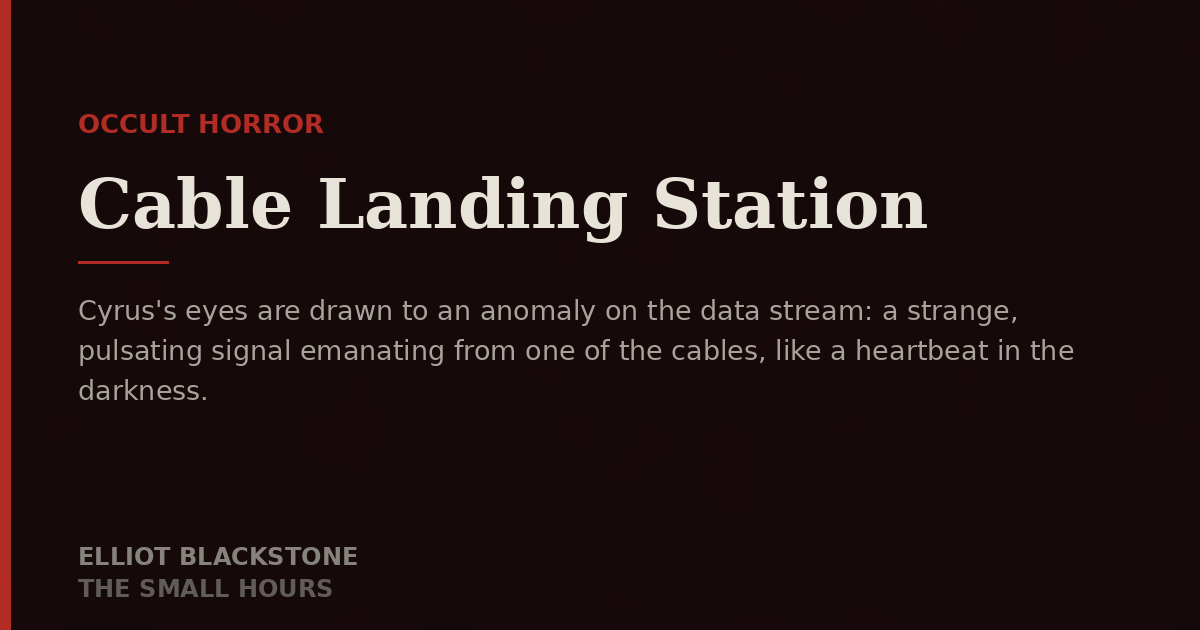
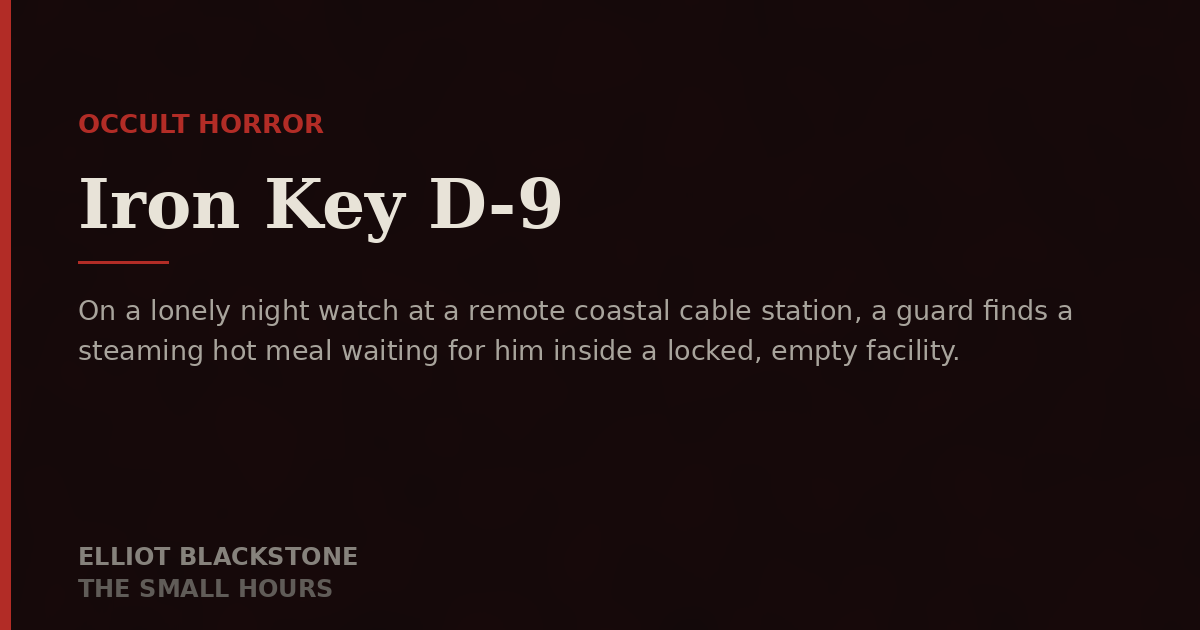
Add a cloud line-edit pass, and apply it to the first story
The local model gets structure right but writes plainly, which is a
hardware ceiling rather than a prompting problem. It now drafts, and
Gemini rewrites at sentence level against the same style guide with the
plot, scene order, names, twist and coda all held fixed. Titles and hooks
come from the same pass, which is markedly better at both.

Entirely optional and strictly additive: with no API key, an API error, a
refusal, a result that is too short or too long, or anything carrying
Grey Anthology lore, the local draft publishes unchanged.

diff --git a/daily/cable-landing-station.html b/daily/cable-landing-station.html
@@ -3,28 +3,28 @@
 <head>
     <meta charset="UTF-8">
     <meta name="viewport" content="width=device-width, initial-scale=1.0">
-    <title>Cable Landing Station - Elliot Blackstone</title>
+    <title>Iron Key D-9 - Elliot Blackstone</title>
     <!-- SEO & social meta (generated) -->
-    <meta name="description" content="Cyrus&#x27;s eyes are drawn to an anomaly on the data stream: a strange, pulsating signal emanating from one of the cables, like a heartbeat in the darkness.">
+    <meta name="description" content="On a lonely night watch at a remote coastal cable station, a guard finds a steaming hot meal waiting for him inside a locked, empty facility.">
     <meta name="author" content="Patrick Galyen">
     <meta name="robots" content="index, follow">
     <link rel="canonical" href="https://elliotblackstone.com/daily/cable-landing-station.html">
     <meta property="og:type" content="article">
     <meta property="og:site_name" content="Elliot Blackstone">
-    <meta property="og:title" content="Cable Landing Station">
-    <meta property="og:description" content="Cyrus&#x27;s eyes are drawn to an anomaly on the data stream: a strange, pulsating signal emanating from one of the cables, like a heartbeat in the darkness.">
+    <meta property="og:title" content="Iron Key D-9">
+    <meta property="og:description" content="On a lonely night watch at a remote coastal cable station, a guard finds a steaming hot meal waiting for him inside a locked, empty facility.">
     <meta property="og:url" content="https://elliotblackstone.com/daily/cable-landing-station.html">
     <meta property="og:image" content="https://elliotblackstone.com/images/og/daily-cable-landing-station.png">
     <meta property="og:image:width" content="1200">
     <meta property="og:image:height" content="630">
-    <meta property="og:image:alt" content="Cable Landing Station — Elliot Blackstone">
+    <meta property="og:image:alt" content="Iron Key D-9 — Elliot Blackstone">
     <meta property="article:author" content="Patrick Galyen">
     <meta property="article:published_time" content="2026-09-13">
     <meta name="twitter:card" content="summary_large_image">
-    <meta name="twitter:title" content="Cable Landing Station">
-    <meta name="twitter:description" content="Cyrus&#x27;s eyes are drawn to an anomaly on the data stream: a strange, pulsating signal emanating from one of the cables, like a heartbeat in the darkness.">
+    <meta name="twitter:title" content="Iron Key D-9">
+    <meta name="twitter:description" content="On a lonely night watch at a remote coastal cable station, a guard finds a steaming hot meal waiting for him inside a locked, empty facility.">
     <meta name="twitter:image" content="https://elliotblackstone.com/images/og/daily-cable-landing-station.png">
-    <meta name="twitter:image:alt" content="Cable Landing Station — Elliot Blackstone">
+    <meta name="twitter:image:alt" content="Iron Key D-9 — Elliot Blackstone">
     <!-- /SEO & social meta -->
     <link rel="stylesheet" href="../css/style.css">
     <!-- JSON-LD structured data (generated) -->
@@ -32,9 +32,9 @@
     {
       "@context": "https://schema.org",
       "@type": "ShortStory",
-      "headline": "Cable Landing Station",
-      "name": "Cable Landing Station",
-      "description": "Cyrus's eyes are drawn to an anomaly on the data stream: a strange, pulsating signal emanating from one of the cables, like a heartbeat in the darkness.",
+      "headline": "Iron Key D-9",
+      "name": "Iron Key D-9",
+      "description": "On a lonely night watch at a remote coastal cable station, a guard finds a steaming hot meal waiting for him inside a locked, empty facility.",
       "genre": "Occult Horror",
       "image": "https://elliotblackstone.com/images/og/daily-cable-landing-station.png",
       "url": "https://elliotblackstone.com/daily/cable-landing-station.html",
@@ -44,7 +44,7 @@
       },
       "inLanguage": "en",
       "datePublished": "2026-09-13",
-      "wordCount": 1979,
+      "wordCount": 1983,
       "author": {
         "@type": "Person",
         "name": "Patrick Galyen",
@@ -87,7 +87,7 @@
             <span class="breadcrumb__sep" aria-hidden="true">›</span>
             <a href="../daily.html">The Small Hours</a>
             <span class="breadcrumb__sep" aria-hidden="true">›</span>
-            <span aria-current="page">Cable Landing Station</span>
+            <span aria-current="page">Iron Key D-9</span>
         </div>
     </nav>
 
@@ -95,8 +95,8 @@
         <section class="page-header">
             <div class="container">
                 <span class="story-category">Occult Horror</span>
-                <h1>Cable Landing Station</h1>
-                <p class="page-subtitle">September 13, 2026 · 1979 words</p>
+                <h1>Iron Key D-9</h1>
+                <p class="page-subtitle">September 13, 2026 · 1983 words</p>
             </div>
         </section>
 
@@ -104,109 +104,259 @@
             <div class="container">
                 <div class="story-body">
                     <p>
-                        Cyrus Sandoval poured himself a lukewarm cup of coffee from the thermos on his truck's passenger seat, its surface etched with faint oil stains from countless sea salt deposits. He'd taken this night watchman job at the submarine cable landing station for the peace and quiet – a break from the constant din of city life after his wife left him. Now, in the stillness of 3:17 a.m., the Pacific's vast darkness pressed against the reinforced steel and concrete enclosures housing the cables that linked the continent to the rest of the world. A few scattered stars pricked the sky above.
+                        Cyrus Sandoval poured himself a lukewarm cup of coffee from the steel thermos on his truck’s passenger seat. The metal casing was caked in dried sea salt and faint grease rings from sixty nights on the headland. He had taken this watchman job at the submarine cable landing station for the quiet—a clean break from Sacramento after Sarah packed her bags and left him with half a house.
                     </p>
                     <p>
-                        He locked his truck, its wheels squeaking on the weathered asphalt, and made his way towards the main control building, a hulking structure of rust-resistant aluminum and corrugated steel. The exterior lights cast long shadows across the concrete, but Cyrus knew every inch of this station by heart – he'd been working here for six months now.
+                        It was 3:17 a.m. The Pacific Ocean lay invisible beyond the security fence, three thousand miles of cold black water pressing against three feet of poured concrete and reinforced steel. A dozen thin stars pricked the marine fog above the bluffs.
                     </p>
                     <p>
-                        As he stepped into the airlock, the hiss of pressure equalization filled his ears. He passed through into the dimly lit control room, where banks of humming servers and LED displays glowed with a soft blue light. His eyes fell on the usual rows of screens: status indicators for the cables, ocean depth sensors, and an emergency generator's fuel level gauge. A key, labeled "D-9", hung from his ring alongside the others – keys for the generator room, the cable repair shack, and the airlock – but Cyrus had no idea what D-9 unlocked. He hadn't seen the corresponding lock on any of the station's doors or equipment cabinets during his six months here.
+                        He locked his truck. The driver’s side hinge squeaked twice against the salt air.
                     </p>
                     <p>
-                        His gaze swept over the screens as he went about his routine check: verifying that all systems were online, monitoring the cable's signal strength, and checking for any unusual changes in ocean currents or sea temperature. The data flowed onto his tablet like a steady stream of water – numbers and graphs that made no sense to him, but which told him everything was normal, just as it should be.
+                        The main control building was a low box of ribbed aluminum and corrugated steel. Sodium lights overhead cast yellow circles across the pitted asphalt. Cyrus knew the ground by foot-feel: two hundred paces from the gate to the outer hatch, three steps over the raised threshold, four paces to the keycard reader. He had walked it every night for six months.
                     </p>
                     <p>
-                        Cyrus's gaze drifted from the screens to the small galley, where a steaming plate of eggs and bacon sat on the counter. His stomach growled at the sight, but he shook his head. He'd eaten an hour ago. Still, someone must have decided to leave him a snack, thinking he might get peckish later.
+                        He stepped into the airlock. The pneumatic seal hissed, equalizing pressure with a heavy thump that vibrated through the heels of his boots.
                     </p>
                     <p>
-                        He shrugged and picked up the plate, examining it for any signs of tampering or recent preparation. The eggs looked freshly cracked, the bacon crisped just right. Whoever made this meal had done a decent job – almost as if they'd been trained in a kitchen. Cyrus set the plate back down on the counter, deciding to leave it there.
+                        Inside, the control room smelled of ozone, wet concrete, and scorched dust. Rack after rack of servers hummed in the dark, their blue LED status displays glowing softly against the linoleum floor.
                     </p>
                     <p>
-                        He checked the comms console for any messages from the owner's office or maintenance teams, but there was nothing new since his last check. The station's routines were well-established; everyone knew what needed doing and when. Cyrus's thoughts began to wander as he went through the motions of his rounds: would he have time to read that book he'd brought with him before his shift ended? Maybe grab a shower if he had an hour free?
+                        Cyrus unclipped his key ring from his belt loop. There was the brass key for the diesel generator room, the square-head key for the cable repair shack, and the master key for the airlock bypass. Between them hung a heavy iron key stamped <em>D-9</em>. In six months of six-day shifts, he had never found a lock that fit it. Not on the breaker boxes, not on the server cages, not on the rusted access hatches along the seawall.
                     </p>
                     <p>
-                        The intercom crackled to life, and Cyrus's eyes snapped back to it. He frowned, expecting a message or perhaps some kind of announcement, but instead of a voice, the sound just kept going – static, like someone was holding the mic open, ready for him to respond.
+                        He tapped his tablet screen to run the hourly routine check. Signal strength on the subsea fiber bundles read steady at one hundred gigabits per second. Ocean depth sensors logged a seabed temperature of 3.8 degrees Celsius. The metrics scrolled past in clean vertical columns—numbers and graphs that meant nothing to him, but proved the continent was still talking to the rest of the world.
                     </p>
                     <p>
-                        Cyrus's eyes narrowed as he listened to the static-filled intercom, wondering if someone had left it open by mistake or if there was a problem with the comms system. He glanced around the dimly lit station, but everything seemed normal. The console in front of him flickered softly, casting an faint glow on the floor. He let out a low sigh and rubbed his eyes, feeling a creeping sense of fatigue.
+                        Cyrus walked over to the galley cutout to fill his water mug. On the stainless steel counter sat a white porcelain plate holding two sunny-side-up eggs and three strips of bacon. Steam rose from the yellow yolks into the cool air.
                     </p>
                     <p>
-                        Shrugging it off, he moved on to the next task: checking the landing gear's condition. As he walked towards the storage room, his foot landed on something familiar – the worn soles of his spare boots, already broken in from months of wear. He'd left them here after his last visit. Cyrus felt a flicker of relief; at least someone had been using the station recently.
+                        Cyrus stopped.
                     </p>
                     <p>
-                        He slipped off his own scuffed boots and put on the spares, feeling a strange sense of comfort in the familiar weight and fit. But as he stood up, a sudden jolt ran through his legs – not quite pain, but... <em>This is just tiredness.</em> He shook it off, chalking it up to a long day and a poor night's sleep. The landing gear was fine; no issues there. Cyrus made a mental note to replace the spare batteries in his radio, though, as he hadn't checked them yet. Maybe that was what was giving him these... odd tingles.
+                        His stomach pinched with hunger, but he frowned down at his wrist. It was 3:22 a.m. He had eaten a cold turkey sandwich at his kitchen table in town at 1:00 a.m. before driving out to the coast.
                     </p>
                     <p>
-                        Cyrus stepped out of the maintenance room and into the main control area, his eyes adjusting to the dim light. He walked over to the radio console, where a small LCD screen glowed softly. He keyed the microphone and began to speak into it, trying to sound more professional than he felt.
+                        <em>Someone left a midnight snack.</em>
+                    </p>
+                    <p>
+                        He leaned down to look closer. The eggs were freshly cracked, the translucent edges uncured by heat lamps. The bacon curled crisp at the ends, smelling of smoked hickory and hot grease. Nobody else was scheduled on the night shift. The day manager, Miller, had logged out at 1800 hours and driven his sedan back to the highway.
+                    </p>
+                    <p>
+                        Cyrus set the plate back on the edge of the counter. He left it there, untouched.
+                    </p>
+                    <p>
+                        He checked the comms console for any incoming transmissions from the regional office in Portland or the field maintenance teams, but the queue was empty. The station ran on fixed schedules. Everyone knew what needed doing, and when. Cyrus went through the motions of his rounds, his mind drifting ahead to the end of his shift: twenty minutes to finish the paperback western in his glovebox, maybe a hot shower in the crew quarters behind the server racks if the water pressure held out.
+                    </p>
+                    <p>
+                        The wall-mounted intercom crackled.
+                    </p>
+                    <p>
+                        A sharp burst of white noise filled the room, like dry sand poured over concrete. Cyrus turned. The red transmit light on the wall unit remained dark, but the speaker cone hummed with open static, as if someone were holding a microphone key open on the other end of the wire.
+                    </p>
+                    <p>
+                        He waited five seconds. Ten.
+                    </p>
+                    <p>
+                        Nothing followed. Just the dry rasp of an open line.
+                    </p>
+                    <p>
+                        Cyrus rubbed his thumb over the bridge of his nose.
+                    </p>
+                    <p>
+                        <em>Faulty ground wire in the amplifier.</em>
+                    </p>
+                    <p>
+                        He picked up his heavy flashlight and walked down the central corridor toward the storage room to complete the 0400 gear check. The air grew colder near the foundation footings, smelling of damp lime and stagnant water.
+                    </p>
+                    <p>
+                        On the concrete floor beside the rubberized landing gear housings sat his spare work boots. They were old Red Wings, the leather scuffed white at the steel toes, the rubber soles worn down at the outer heel. He had brought them from his garage three weeks ago and left them against the wall.
+                    </p>
+                    <p>
+                        He unlaced his current boots, kicked them off, and slid his feet into the spares. The leather was supple, already molded to the arches of his feet.
+                    </p>
+                    <p>
+                        He stood up and pulled the laces tight.
+                    </p>
+                    <p>
+                        A sudden spike of cold electricity shot through his calves—a sharp, prickling numbness that climbed from his ankles to his knees like needles pushed into muscle.
+                    </p>
+                    <p>
+                        Cyrus grabbed the edge of a steel shelving unit.
+                    </p>
+                    <p>
+                        <em>You slept four hours in three days. It is muscle fatigue.</em>
+                    </p>
+                    <p>
+                        He bent his knees twice until the thrumming settled into a dull, vibrating ache. The landing gear housings were dry and bolted down tight. He made a note on his clipboard that the backup lithium batteries in the emergency radio were due for testing. Maybe that was what was feeding feedback into the electrical lines.
+                    </p>
+                    <p>
+                        He stepped out of the maintenance bay and returned to the main control area. The light felt dimmer now, the blue LEDs casting longer shadows between the server racks.
+                    </p>
+                    <p>
+                        He picked up the heavy plastic microphone of the marine-band radio console. He clicked the dial to channel 16, pressed the push-to-talk button, and cleared his throat.
                     </p>
                     <p>
                         "Hello, this is the cable landing station. Can anyone hear me?"
                     </p>
                     <p>
-                        The static that responded was just as he had expected – nothing. He tried again, this time switching to a different frequency, but the result was the same: silence.
+                        The speaker hissed back at him. Nothing.
                     </p>
                     <p>
-                        Cyrus let out a slow breath and stood up straight, raking his hand through his hair. <em>Okay, so the batteries in the radio must be dead after all.</em> He made a mental note to check them as soon as he could, and then tried calling again, this time using his phone.
+                        He switched the selector dial three notches to the right, onto the commercial frequency.
                     </p>
                     <p>
-                        The screen flickered to life as the phone connected to the satellite link, but when Cyrus tried to dial out, the numbers refused to register. The display froze on the keypad layout, as if waiting for him to enter a code.
+                        "Hello, this is the cable landing station. Can anyone hear me?"
                     </p>
                     <p>
-                        He stepped back from the console, feeling a shiver run down his spine despite the warm summer evening air. <em>That's strange</em>. But he knew what was likely going on – it was just another minor issue with the satellite link, one that would be easy enough to resolve once he got the right people involved.
+                        Static.
                     </p>
                     <p>
-                        Cyrus took a deep breath and tried to shake off the feeling of unease settling in his chest. He walked over to the small café area near the control room, where a vending machine hummed quietly in the corner. Maybe a snack would help him clear his head...
+                        He hung the microphone on its brass hook. He pulled his cell phone from his belt holster. The screen lit up with full signal bars for the satellite link, but when he tapped the keypad to dial out, the screen froze. The display locked on the numeric layout, an empty text field appearing at the top, waiting for a nine-digit security code he had never seen before.
                     </p>
                     <p>
-                        Cyrus stood at the counter of the café, staring blankly at the vending machine as it dispensed a bag of stale chips into the tray. He opened the pack and sniffed the contents, his stomach growling at the scent. The crunch of the chips as he popped one into his mouth was a familiar sound, but it did nothing to distract him from the nagging sense that something was wrong.
+                        Cyrus backed away from the desk.
                     </p>
                     <p>
-                        He tried to focus on the task at hand – getting the satellite link up and running again – but his mind kept drifting back to the strange feeling of being watched. It started when he first arrived, but he'd pushed it aside as mere paranoia. Now, however, it had morphed into a creeping sense of disorientation.
+                        The temperature in the room had dropped four degrees. He could see his breath forming faint, translucent clouds over the glowing indicator screens.
                     </p>
                     <p>
-                        As he munched on the chips, Cyrus noticed that the intercom in the corner of the control room – which had been stuck on a loop with the same message for what felt like hours – suddenly flickered back to life. "Welcome to the OceanView Submarine Cable Landing Station... Welcome to the OceanView Submarine Cable..." The words hung in the air, identical to before, but something about it now sent a shiver down his spine.
+                        <em>It is a signal drop. The satellite relay is recalibrating.</em>
                     </p>
                     <p>
-                        He glanced down at his wristwatch, which had been running fast for weeks – four minutes ahead of actual time. Now, as he checked it for what felt like the hundredth time that night, the discrepancy seemed to be growing.
+                        He walked into the small break area adjacent to the control room. A vending machine hummed quietly in the corner against the painted cinderblock wall.
                     </p>
                     <p>
-                        Cyrus's eyes locked onto his watch as the discrepancy between its time and his surroundings grew. The words from the intercom still hung in the air, but he'd tuned them out. He couldn't shake the feeling that the clock was broken, that the very fabric of time had come loose.
+                        Cyrus reached into his pocket, pulled out three quarters, and pushed them into the coin slot. He pressed B-4.
                     </p>
                     <p>
-                        He pushed back from the console and stood up, his joints creaking softly as he stretched. The control room was a tomb, the only sound the hum of the equipment and the gentle hiss of the ventilation system. The air felt stale, heavy with the scent of ozone and burned plastic.
+                        The internal coil turned with a heavy metallic click. A blue foil bag of potato chips dropped into the tray below.
                     </p>
                     <p>
-                        As he moved closer to the intercom, the words seemed to grow louder, more urgent. "Welcome to... Welcome to..." He raised his hand to touch the device, and just as his fingers made contact, the lights in the room began to strobe wildly.
+                        He tore the corner of the bag with his teeth. The smell of rancid canola oil filled his nostrils. He chewed one chip. It tasted flat, like cardboard dipped in salt, but his stomach churned around it anyway.
                     </p>
                     <p>
-                        The sudden change made Cyrus's heart jump into his throat. He stumbled backward, tripping over the edge of the console chair. His palms hit the cold floor hard, and he scrambled to get up, his breathing growing ragged. The lights died, plunging the room into darkness.
+                        Behind him, the intercom speaker on the break room wall clicked twice.
                     </p>
                     <p>
-                        Cyrus froze, waiting for his eyes to adjust. But instead of a gradual dimming, there was an absolute absence of light. He strained to see, but it was like being underwater. The air felt thick and heavy, pressing down on him. And then, with no warning, the temperature plummeted, making the hairs on the back of his neck stand on end.
+                        A mechanical female voice spoke through the static:
                     </p>
                     <p>
-                        He was alone in the darkness, surrounded by silence.
+                        "Welcome to the OceanView Submarine Cable Landing Station... Welcome to the OceanView Submarine Cable..."
                     </p>
                     <p>
-                        Cyrus's eyes strained to see through the darkness, but it was like trying to breathe through a clogged pipe. He could feel the air thickening around him, making his skin prickle with sweat. The cold seeped in, crawling up his legs like a living thing.
+                        The voice paused, clicked, and repeated the phrase with exact, flat cadences.
                     </p>
                     <p>
-                        He tried to stand, but his feet felt rooted to the spot. A faint hum vibrated through the soles of his shoes, making them thrum like a bass note. Cyrus's mind reeled, trying to piece together what was happening. He thought back to the days since he'd arrived at the station. The strange symbols on the console. The discrepancy in the weather records.
+                        Cyrus looked down at his wrist. His stainless steel watch had been running four minutes fast for weeks. Now, as he watched the sweep second hand, it was jumping two seconds with every tick, spinning forward into time that had not arrived yet.
                     </p>
                     <p>
-                        A memory clicked into place: the lawyer's words, months ago. "I want my affairs settled, Mr. Sandoval. You're a man of routine, I'm told." Routine. Cyrus remembered the will, the way the lawyer's eyes had flickered over the words before he'd signed off. Routine.
+                        The discrepancy was growing.
                     </p>
                     <p>
-                        The hum grew louder, and Cyrus felt his body begin to shudder. He was on his feet now, stumbling towards the door. But as he reached for the handle, his hand closed around something smooth and metallic. A small key fob. The one he'd found on the floor weeks ago. The one with a number etched into it: 27.
+                        "Welcome to the OceanView Submarine Cable..."
                     </p>
                     <p>
-                        Cyrus Sandoval's records were filed away with the others, stamped INACTIVE on the top sheet. The submarine cable landing station was still operational, its humming machinery a steady beat in the darkness. The weather records for that day were missing, but the discrepancy had been noted and would be looked into. Routine procedure.
+                        The voice echoed from the hallway speaker, the galley speaker, and the main control console simultaneously.
                     </p>
                     <p>
-                        The new watchman, Jenkins, clocked in at 0600 hours, exchanging pleasantries with the security guard as he took over the rounds. Cyrus Sandoval's name was scratched off the roster, his badge returned to storage. The station's schedule was unchanged: maintenance checks tomorrow at 0800, replacement parts ordered from the mainland. Jenkins made a mental note to review the cable's repair history.
+                        Cyrus dropped the bag of chips.
                     </p>
                     <p>
-                        As he walked the catwalks, Jenkins noticed the console was still open on Cyrus Sandoval's workstation, keys pressed in place, the intercom crackling with static. He cleared his throat and spoke into the mic, the words echoing back at him: "Station Alpha, this is Security. Station Alpha, this is Security."
+                        The floor beneath his boots was no longer still. A low-frequency hum—sixty hertz, vibrating through the concrete slab—shook the water in his mug and thrummed up through his leg bones into his pelvis.
+                    </p>
+                    <p>
+                        The smell of burned plastic and ozone hit his throat, thick as wet wool.
+                    </p>
+                    <p>
+                        He stepped back into the main room. The intercom speaker rattled inside its metal housing on the wall.
+                    </p>
+                    <p>
+                        "Welcome to..."
+                    </p>
+                    <p>
+                        He reached his right hand out to hit the master breaker switch on the zinc wall box.
+                    </p>
+                    <p>
+                        The moment his fingers touched the metal cover, the overhead lights strobed violently three times. Blue sparks rained down from the overhead cable trays.
+                    </p>
+                    <p>
+                        Cyrus stumbled backward. His heel caught the caster wheel of his office chair.
+                    </p>
+                    <p>
+                        He hit the floor hard. The linoleum burned his palms.
+                    </p>
+                    <p>
+                        The lights died.
+                    </p>
+                    <p>
+                        Absolute darkness filled the room. Not the soft dark of an unlit office, but a heavy, physical blackness that pressed against his open eyes like wet clay.
+                    </p>
+                    <p>
+                        The temperature plummeted. Frost bloomed across the concrete floor, sticking to the skin of his hands.
+                    </p>
+                    <p>
+                        He tried to push himself up, but his feet felt rooted to the spot. The hum vibrating through the soles of his shoes had turned into a physical weight, holding his legs down, locking his knees in place.
+                    </p>
+                    <p>
+                        <em>Think.</em>
+                    </p>
+                    <p>
+                        Six months of routine. The weather logs that had no entries for rain. The console display symbols that matched no known binary code. The eggs on the counter, cooked for a man who had already eaten.
+                    </p>
+                    <p>
+                        A memory surfaced through the noise in his head: the lawyer’s office in Sacramento three weeks after Sarah left. The heavy mahogany desk. The smell of old paper and peppermint. The man in the grey suit sliding a thick blue folder across the wood.
+                    </p>
+                    <p>
+                        "I want my affairs settled, Mr. Sandoval. You're a man of routine, I'm told."
+                    </p>
+                    <p>
+                        <em>The will.</em>
+                    </p>
+                    <p>
+                        He had not taken this job. He had been assigned to it. The contract was not an employment agreement; it was a disposition of assets.
+                    </p>
+                    <p>
+                        Cyrus dragged his right hand across the frost-slicked floor until his fingers struck a small metal object beneath the lip of the main console baseboard.
+                    </p>
+                    <p>
+                        He gripped it.
+                    </p>
+                    <p>
+                        It was an oval key fob on a broken steel chain. He ran his thumb over the stamped face, feeling the frozen metal bite into his skin.
+                    </p>
+                    <p>
+                        The number <em>27</em> was cut deep into the iron.
+                    </p>
+                    <p>
+                        ***
+                    </p>
+                    <p>
+                        Cyrus Sandoval’s records were filed in the regional administrative office in Salem, stamped INACTIVE on the top sheet of the manila folder.
+                    </p>
+                    <p>
+                        The submarine cable landing station at OceanView continued to process 120 terabytes of encrypted data per minute. The weather metrics for October 14 showed a four-hour gap in barometric logs, noted in red ink on the weekly audit sheet.
+                    </p>
+                    <p>
+                        The replacement watchman, Jenkins, tapped his ID card against the outer security scanner at 0600 hours.
+                    </p>
+                    <p>
+                        "Mornin'," Jenkins said to the guard at the gate.
+                    </p>
+                    <p>
+                        Cyrus Sandoval’s name had been drawn through with a black felt marker on the clipboard duty sheet. His metal locker had been cleared, his magnetic access badge returned to the safe. The station schedule was unchanged: generator maintenance at 0800, replacement parts ordered from the mainland.
+                    </p>
+                    <p>
+                        Jenkins walked the steel catwalk above the server banks. On the main workstation, the terminal screen remained active, the cursor blinking over a blank prompt line. A heavy ring of keys lay beside the keyboard, the brass key stamped <em>D-9</em> glinting under the fluorescent tubes.
+                    </p>
+                    <p>
+                        The wall intercom clicked once. Static hissed from the speaker cone.
+                    </p>
+                    <p>
+                        Jenkins lifted the black plastic microphone, pressed the switch, and spoke into the cold room.
+                    </p>
+                    <p>
+                        "Station Alpha, this is Security. Station Alpha, this is Security."
                     </p>
                 </div>
 

diff --git a/daily.html b/daily.html
@@ -83,16 +83,16 @@
                 <div class="stories-grid-full">
                     <article class="story-card-large">
                         <div class="story-image">
-                            <img src="images/og/daily-cable-landing-station.png" alt="Cable Landing Station preview artwork" width="1200" height="630" decoding="async" loading="lazy" class="story-thumb">
+                            <img src="images/og/daily-cable-landing-station.png" alt="Iron Key D-9 preview artwork" width="1200" height="630" decoding="async" loading="lazy" class="story-thumb">
                             <div class="story-overlay"></div>
                         </div>
                         <div class="story-content">
                             <span class="story-category">Occult Horror</span>
-                            <h3>Cable Landing Station</h3>
-                            <p class="story-excerpt">Cyrus&#x27;s eyes are drawn to an anomaly on the data stream: a strange, pulsating signal emanating from one of the cables, like a heartbeat in the darkness.</p>
+                            <h3>Iron Key D-9</h3>
+                            <p class="story-excerpt">On a lonely night watch at a remote coastal cable station, a guard finds a steaming hot meal waiting for him inside a locked, empty facility.</p>
                             <div class="story-meta">
                                 <span class="story-date">September 13, 2026</span>
-                                <span class="story-count">1979 words</span>
+                                <span class="story-count">1983 words</span>
                             </div>
                             <a href="daily/cable-landing-station.html" class="read-more">Read Full Story →</a>
                         </div>
